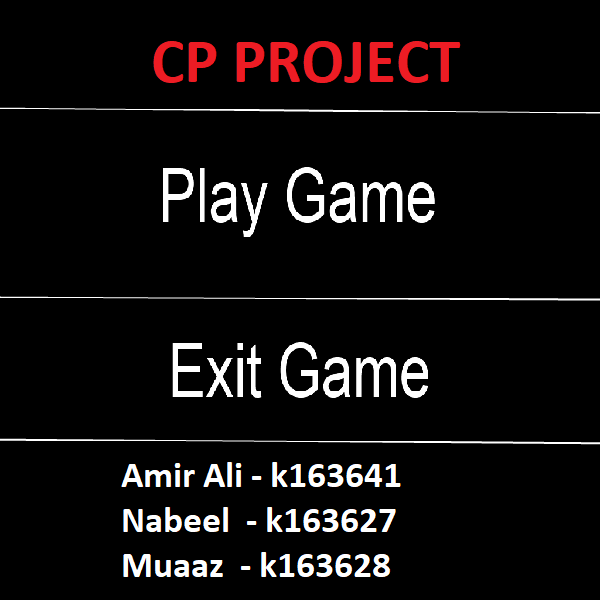
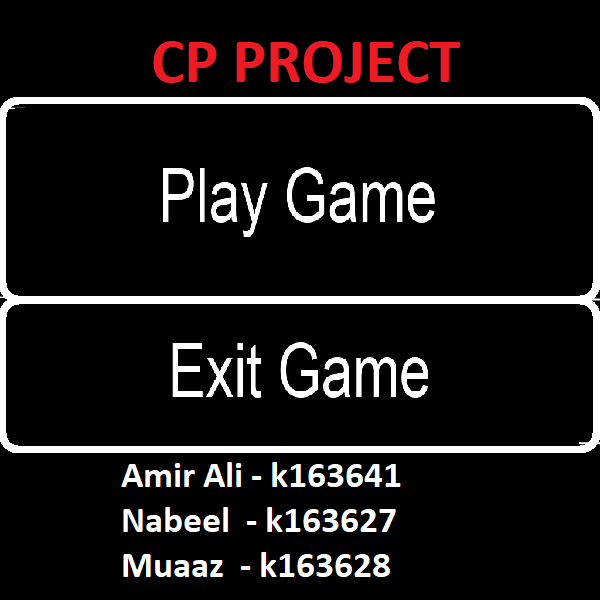
mainmenu / music update
fixed  music

edited main menu picture

cleaned the code

fixed double window issue (game and main menu were being created at the
same time)

Changed region(s): [[0.0, 0.15, 1.0, 0.78]]

diff --git a/main.cpp b/main.cpp
@@ -5,53 +5,54 @@
 #include <SFML/Audio.hpp>
 
 int main(){
-    Game game; // Creating our game object.
     int gameState;
     sf::Music music;
+    bool check;
+    bool startgame=false;
+    bool endgame=false;
+
     if (!music.openFromFile("music.ogg"))
     std::cout<<"File Not Found"; // error
-    bool check;
+
+    music.play();// start music
 
 
-     sf::Sprite sp_mainmenu;
+    sf::Sprite sp_mainmenu;
     sf::Texture tex_mainmenu;
     tex_mainmenu.loadFromFile("mainmenu.png");
     sp_mainmenu.setTexture(tex_mainmenu);
-    sp_mainmenu.setPosition(-100,0);
-    sf::RenderWindow window(sf::VideoMode(600, 600), "Tic Tac Toe");
-    bool startgame=false,endgame=false;
-    while (window.isOpen()&&!startgame && !endgame)
+    sp_mainmenu.setPosition(0,0);
+
+    sf::RenderWindow window(sf::VideoMode(600, 600), "Main Menu");
+
+
+    while (window.isOpen() && startgame==false && endgame==false)//both false -> keep main menu
     {
         sf::Event event;
 
         while (window.pollEvent(event))
         {
-        if(event.type == sf::Event::Closed)
-        {
-           endgame = true;
-          window.close();
-        }
+            if(event.type == sf::Event::Closed)
+            {
+                endgame = true;
+                window.close();
+            }
+
             if (event.type == sf::Event::MouseButtonReleased && event.mouseButton.button == sf::Mouse::Left)
                 {
                     int x = sf::Mouse::getPosition(window).x;
                     int y = sf::Mouse::getPosition(window).y;
-                    if((x>0 && y>120) && (x<370 && y<280) )
+                    if((x>0 && y>100) && (x<600 && y<300) )
                     {
-
-                     startgame=true;
+                        startgame=true;
                         window.close();
                     }
-                    if((x>0 && y>300) && (x<370 && y<430) )
+                    if((x>0 && y>300) && (x<600 && y<450) )
                     {
-                     //   amir++;
                         endgame=true;
                         window.close();
                     }
-
-                   // std::cout << x << " -- " << y << std::endl;
-
                 }
-                //window.close();
         }
 
         window.clear();
@@ -60,26 +61,26 @@ int main(){
     }
 
     //comes afterward
-    if(startgame&&!endgame)
+    if(startgame==true && endgame==false)
     {
+        Game game; // Creating our game object.
 
 
-
-    while(game.GetWindow()->IsDone()==false)
-    {
-        // Game loop.
-
-        game.HandleInput();
-        gameState = game.Update(); //will return -1 for draw, 1 for user win, 2 for bot win. 0 for continue
-        game.Render();
-
-        if(gameState != 0)
+        while(game.GetWindow()->IsDone()==false)
         {
-            game.displayMessage(gameState); //send which message to display. this func will also set isDone to true
+            // Game loop.
+
+            game.HandleInput();
+            gameState = game.Update(); //will return -1 for draw, 1 for user win, 2 for bot win. 0 for continue
+            game.Render();
+
+            if(gameState != 0)
+            {
+                game.displayMessage(gameState); //send which message to display. this func will also set isDone to true
+            }
         }
-        music.play();
+
     }
 
-        }
     return 0;
 }
